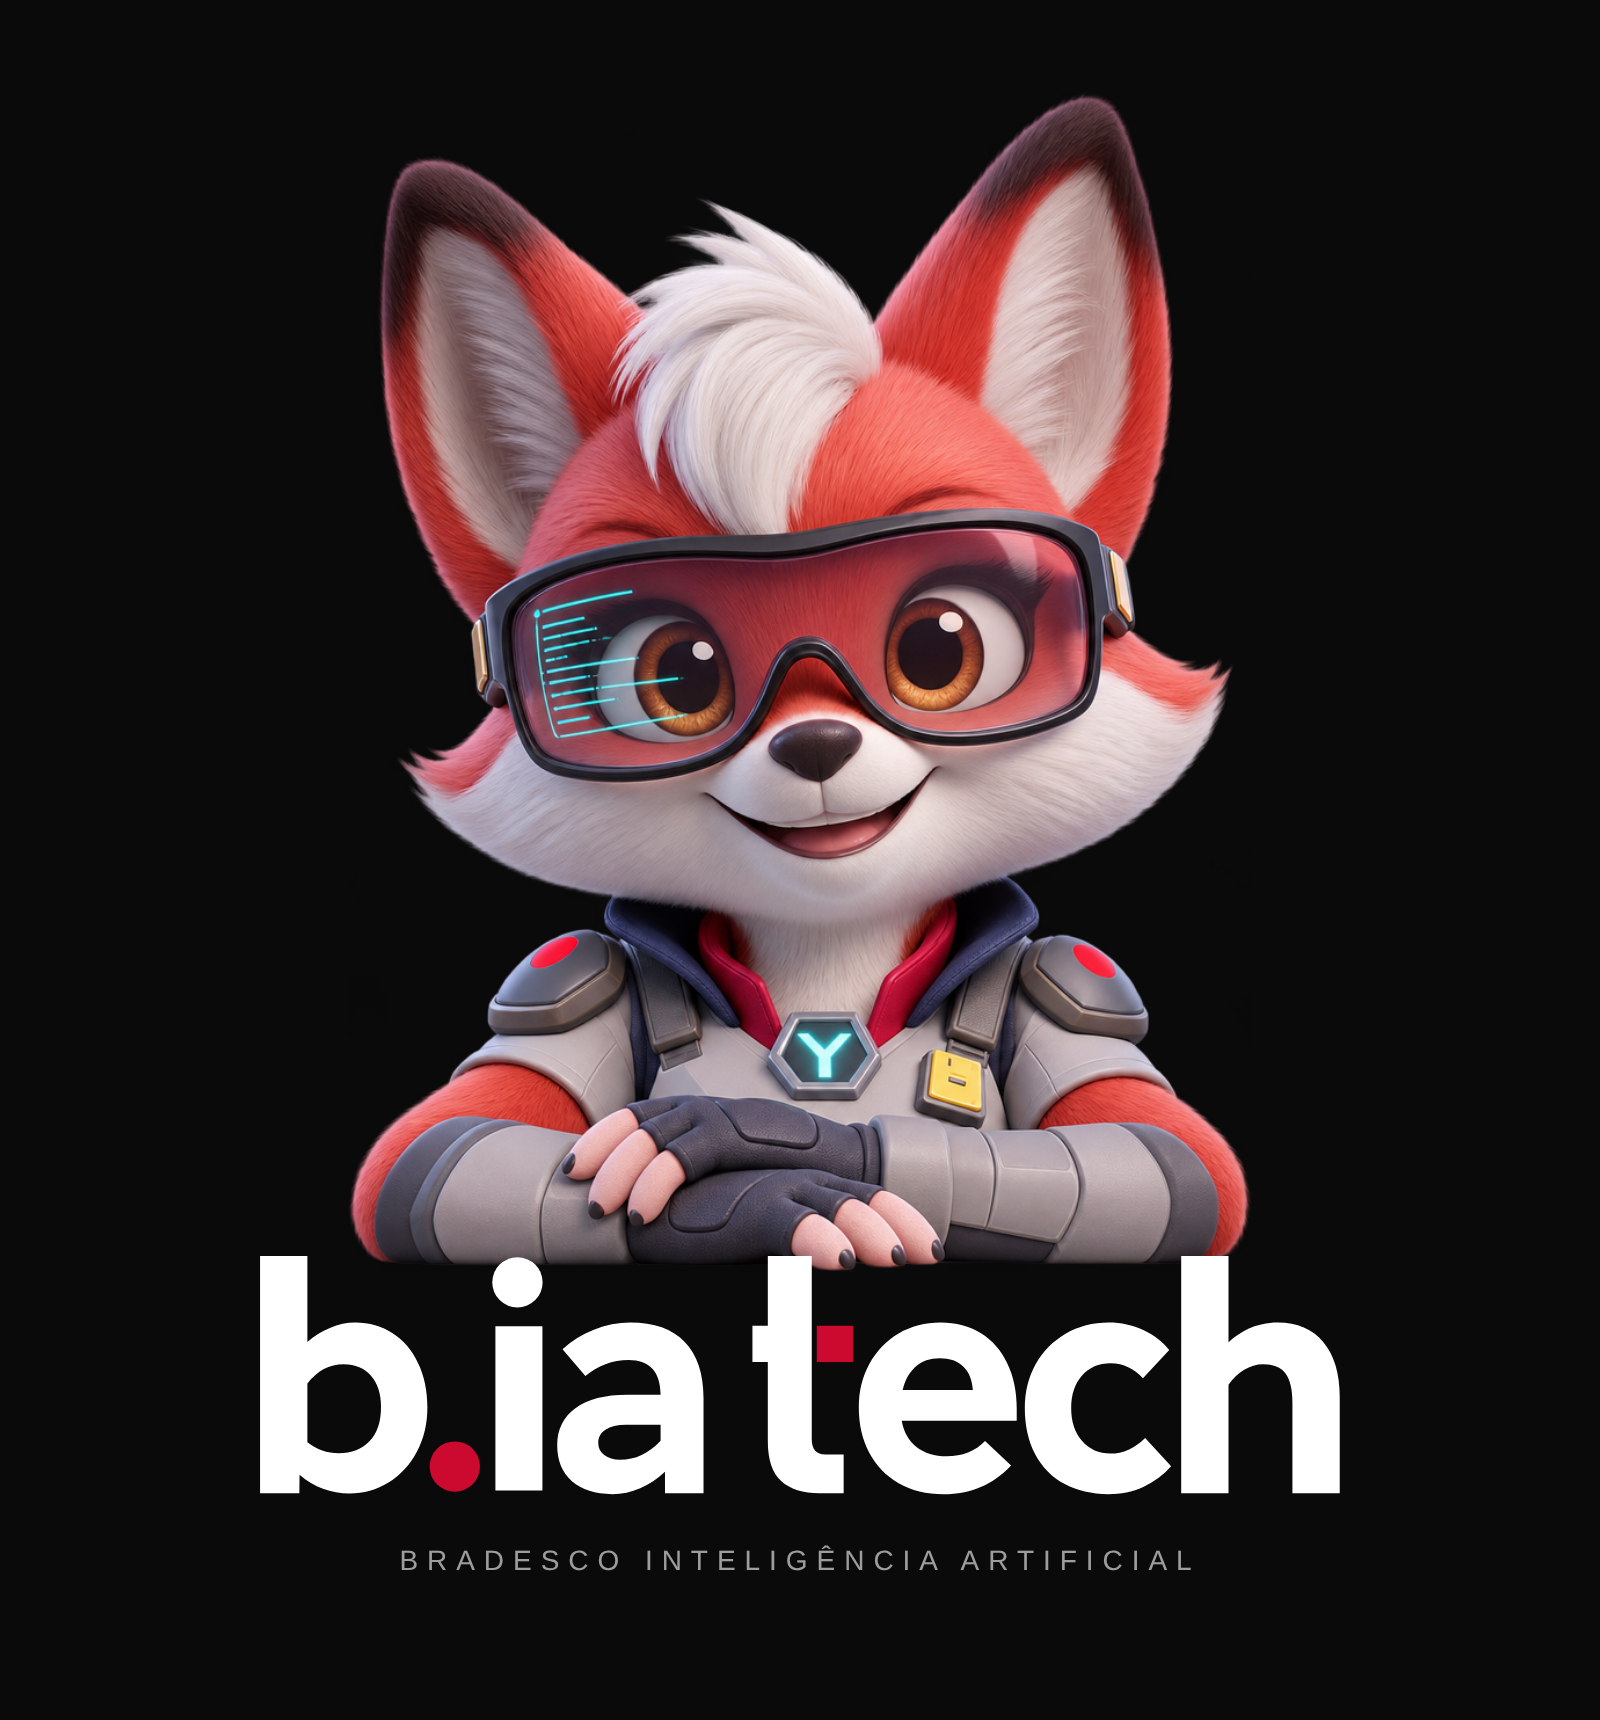
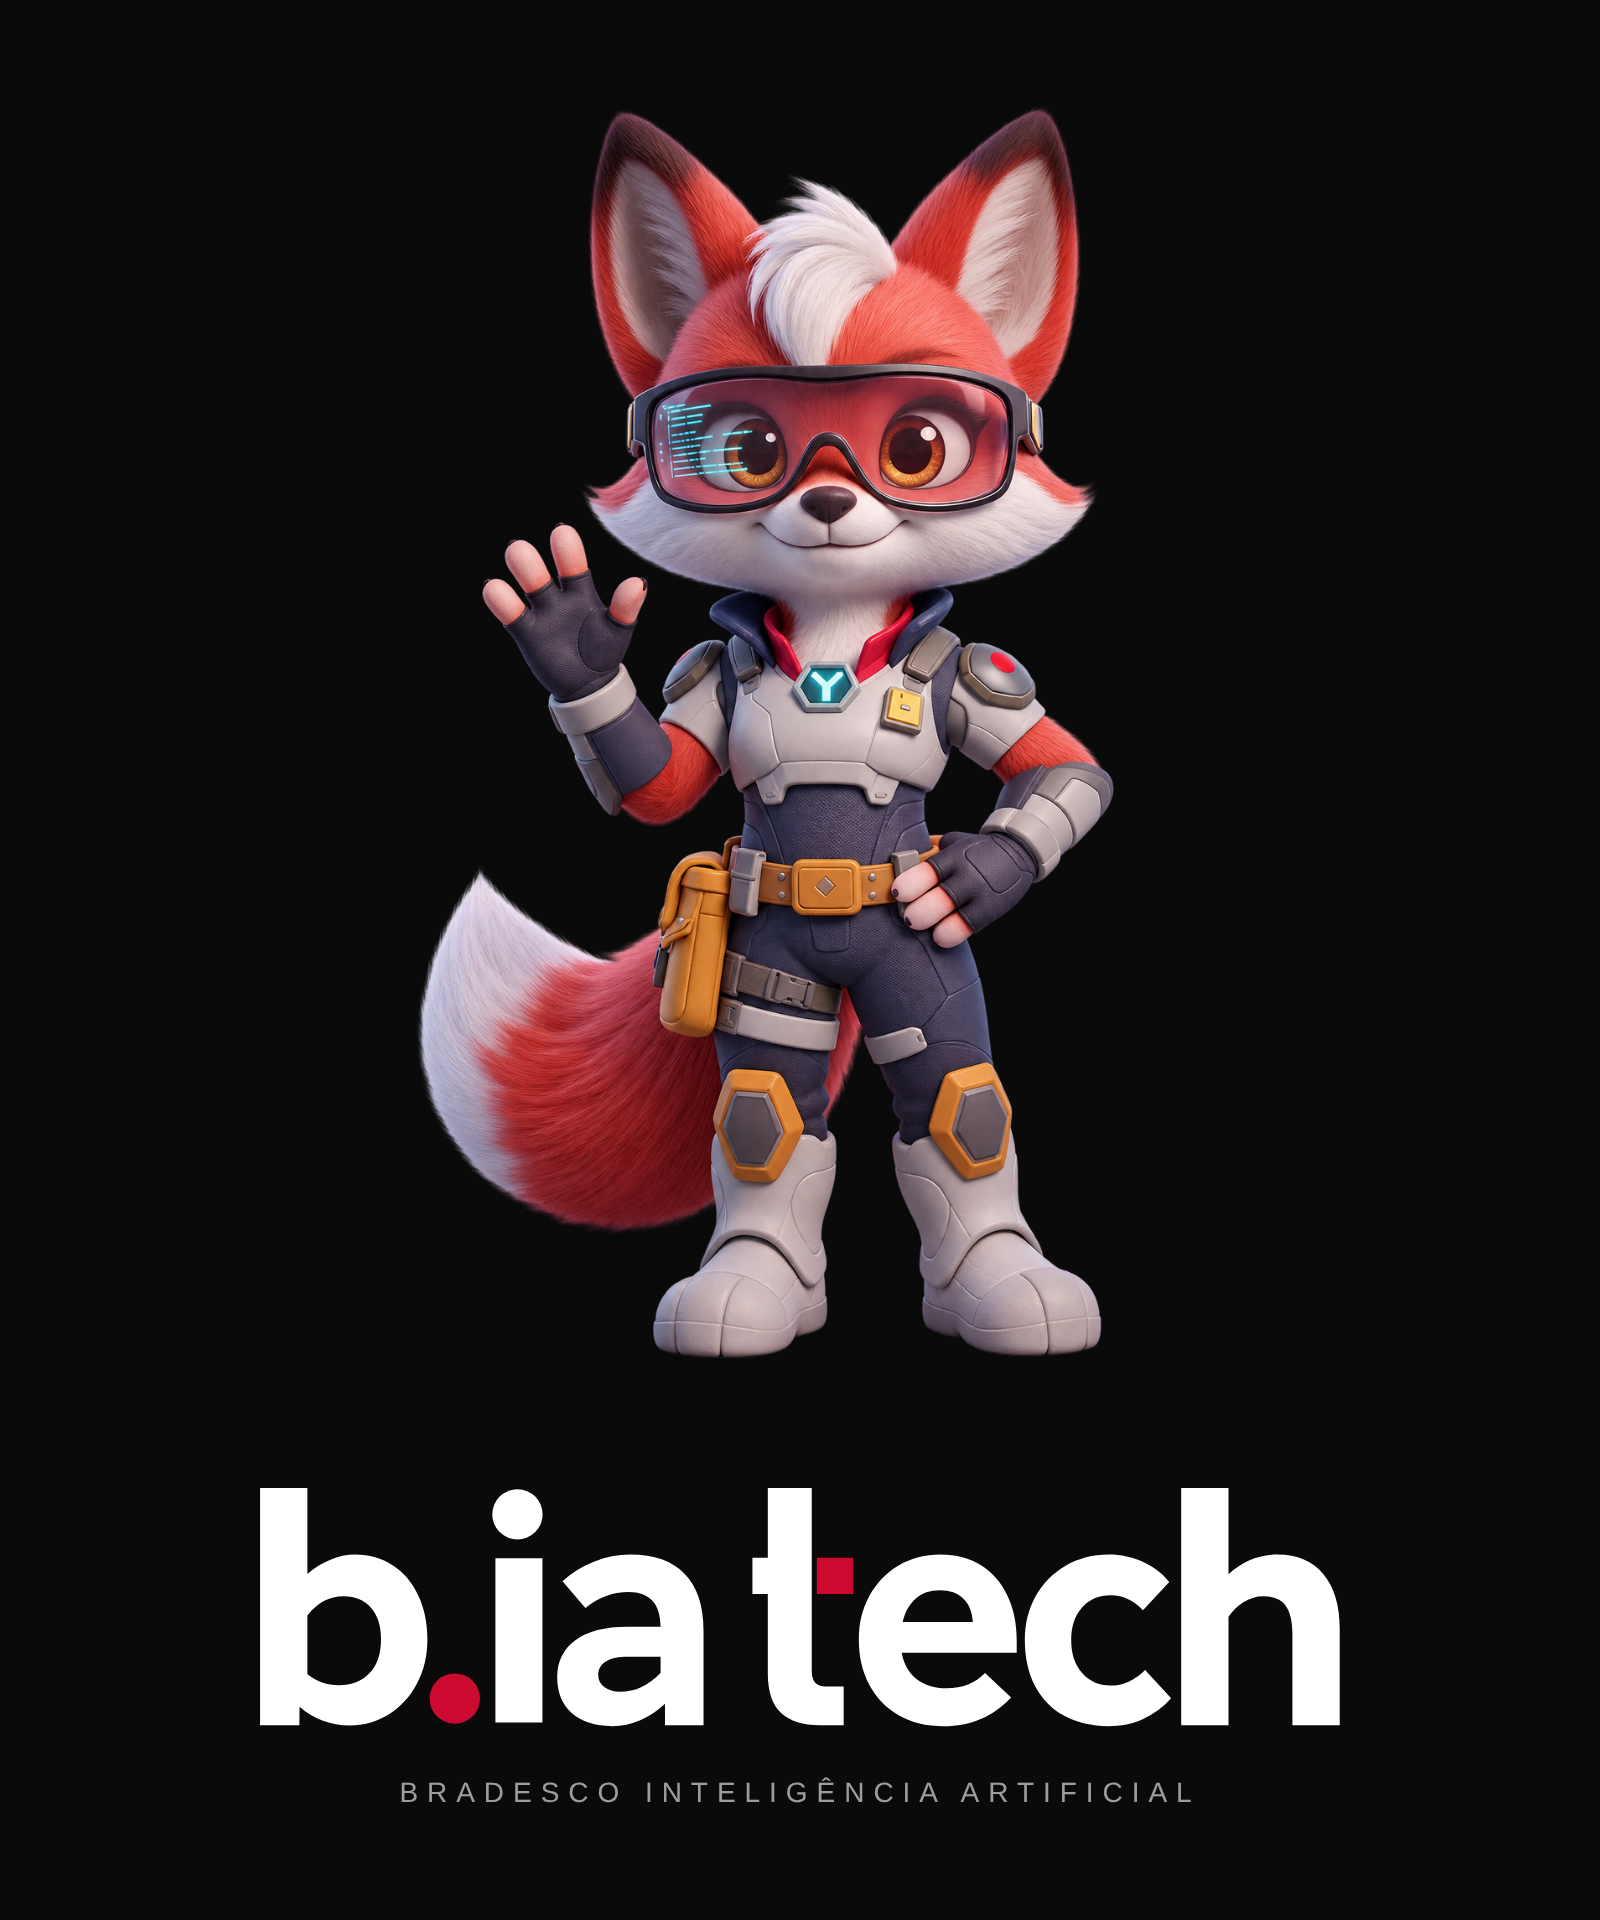
Lockup vertical: BIA de corpo inteiro acima do wordmark, com respiro
Claude-Session: https://claude.ai/code/session_01ADeYYMQxRk91v9C1RJmNJ3

diff --git a/brandbook-html/index.html b/brandbook-html/index.html
@@ -463,7 +463,7 @@ pre.code{margin:0;background:var(--ink);color:var(--t-d2);font:12.5px/1.7 var(--
 <section id="lockups" class="dark grid">
   <div class="wrap">
     <div class="sec-h"><span class="lab">09 — Lockups</span><h2>BIA Tech com o wordmark</h2>
-      <p class="lead">O lockup é a única forma aprovada de juntar a personagem e a marca numa assinatura. Cada lockup tem arte própria: no horizontal, a BIA fica à direita, virada para o wordmark, e o apresenta com a palma da mão; no vertical, ela se debruça sobre o wordmark, com os antebraços apoiados nas letras. Não monte combinações novas com outras poses.</p></div>
+      <p class="lead">O lockup é a única forma aprovada de juntar a personagem e a marca numa assinatura. Cada lockup tem arte própria: no horizontal, a BIA fica à direita, virada para o wordmark, e o apresenta com a palma da mão; no vertical, ela aparece de corpo inteiro acenando, centralizada acima do wordmark, com um respiro de 1X entre os pés e o topo do "t". Não monte combinações novas com outras poses.</p></div>
     <div class="lk">
       <figure><img class="chk" src="img/p-lockup-horizontal-positivo.webp" alt="Lockup horizontal positivo" loading="lazy"><figcaption>Horizontal · positivo · PNG transparente</figcaption></figure>
       <figure><img src="img/p-lockup-horizontal-negativo.webp" alt="Lockup horizontal negativo" loading="lazy"><figcaption>Horizontal · negativo · fundo #0A0A0A</figcaption></figure>
